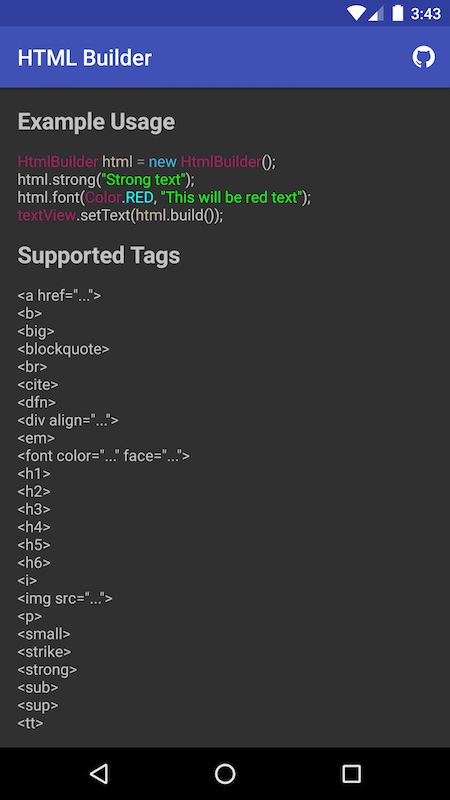
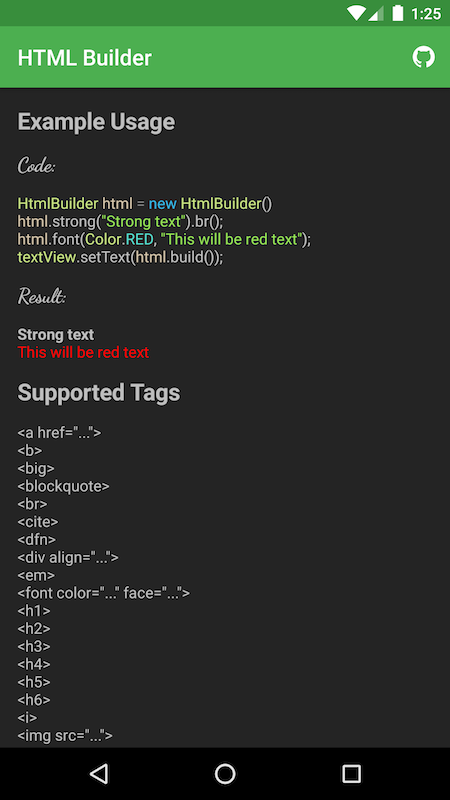
Update demo

Changed region(s): [[0.0311, 0.1875, 0.6844, 0.9375], [0.0, 0.0, 1.0, 0.125]]

diff --git a/demo/src/main/java/com/jrummyapps/htmlbuilder/demo/MainActivity.java b/demo/src/main/java/com/jrummyapps/htmlbuilder/demo/MainActivity.java
@@ -40,38 +40,46 @@ public class MainActivity extends AppCompatActivity {
     HtmlBuilder html = new HtmlBuilder();
     html.h1("Example Usage");
 
-    html.font(0xFFAA1D5D, "HtmlBuilder")
+    html.h3().font("cursive", "Code:").close();
+
+    html.font(0xFFCAE682, "HtmlBuilder")
         .append(' ')
-        .font(0xFFC3B59B, "html")
+        .font(0xFFD4C4A9, "html")
         .append(' ')
         .font(Color.GRAY, "=")
         .append(" ")
         .font(0xFF33B5E5, "new")
         .append(" ")
-        .font(0xFFAA1D5D, "HtmlBuilder")
-        .append("();")
+        .font(0xFFCAE682, "HtmlBuilder")
+        .append("()")
         .br();
 
-    html.append("html.strong(")
-        .font(Color.GREEN, "\"Strong text\"")
-        .append(");")
+    html.font(0xFFD4C4A9, "html")
+        .append(".strong(")
+        .font(0xFF95E454, "\"Strong text\"")
+        .append(").br();")
         .br();
 
-    html.append("html.font(")
-        .font(0xFFAA1D5D, "Color")
+    html.font(0xFFD4C4A9, "html")
+        .append(".font(")
+        .font(0xFFCAE682, "Color")
         .append('.')
-        .font(Color.CYAN, "RED")
+        .font(0xFF53DCCD, "RED")
         .append(", ")
-        .font(Color.GREEN, "\"This will be red text\"")
+        .font(0xFF95E454, "\"This will be red text\"")
         .append(");")
         .br();
 
-    html.font(0xFFAA1D5D, "textView")
+    html.font(0xFFCAE682, "textView")
         .append(".setText(")
-        .font(0xFFC3B59B, "html")
+        .font(0xFFD4C4A9, "html")
         .append(".build());")
         .close()
         .br();
+
+    html.h3().font("cursive", "Result:").close();
+
+    html.strong("Strong text").br().font(Color.RED, "This will be red text");
 
     html.h1("Supported Tags");
 
@@ -111,8 +119,6 @@ public class MainActivity extends AppCompatActivity {
         .append("&nbsp;&nbsp;|&nbsp;&nbsp;")
         .strong().a("https://github.com/jaredrummler", "GitHub").close()
         .close();
-
-    System.out.println(html);
 
     textView.setMovementMethod(LinkMovementMethod.getInstance());
     textView.setText(html.build());
